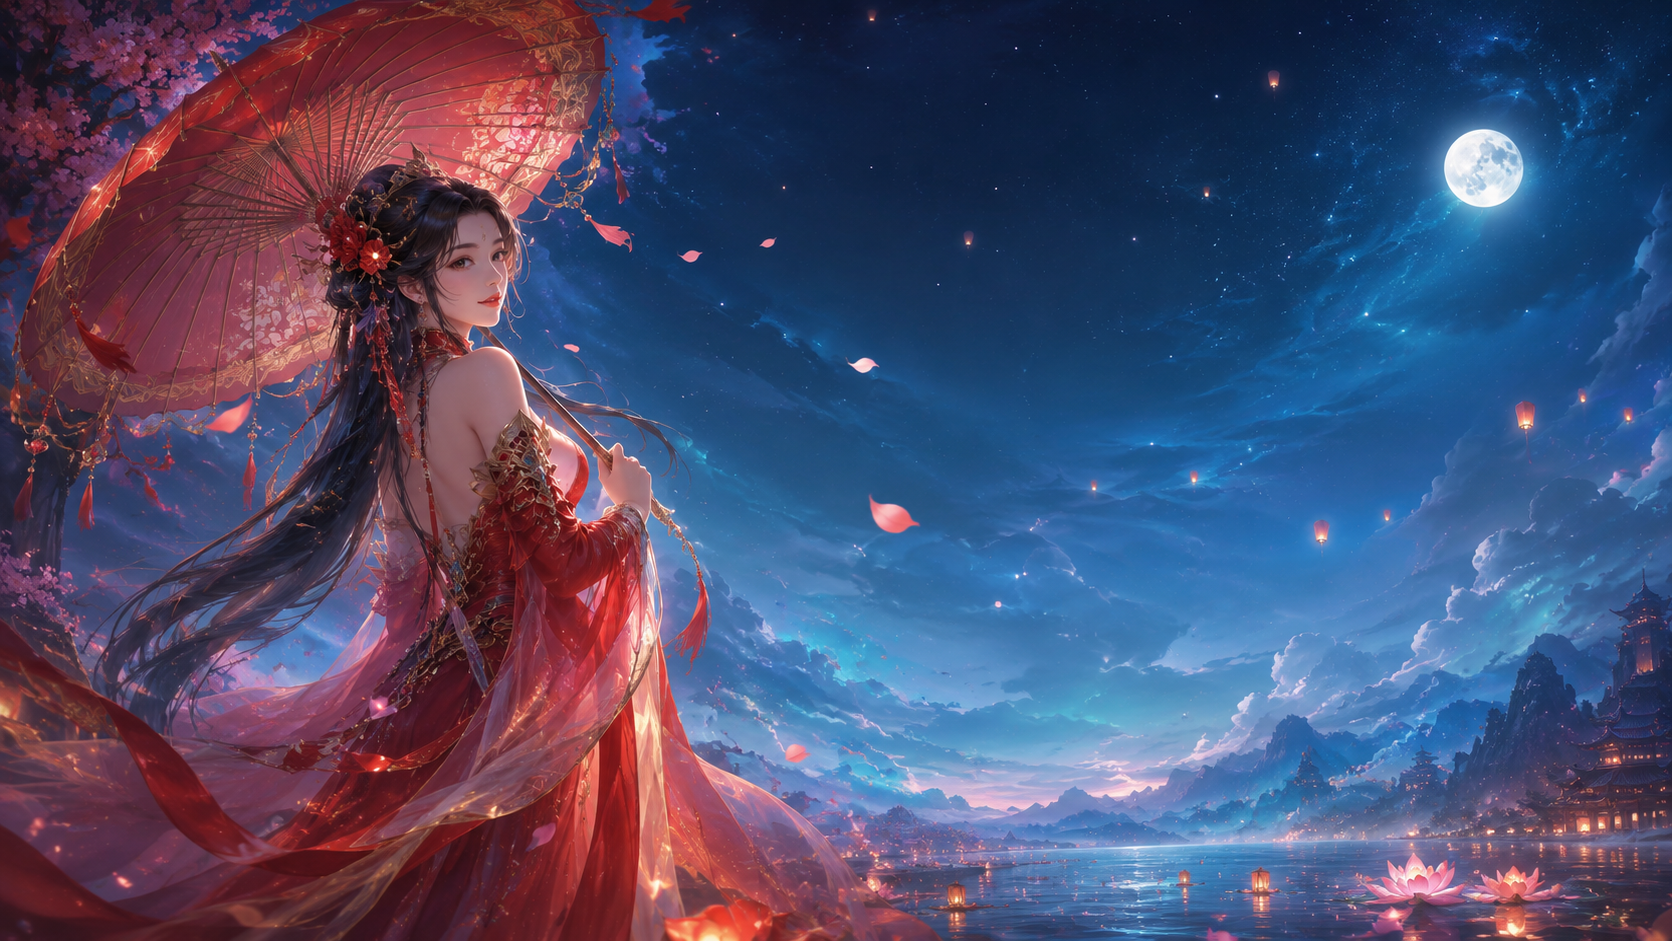
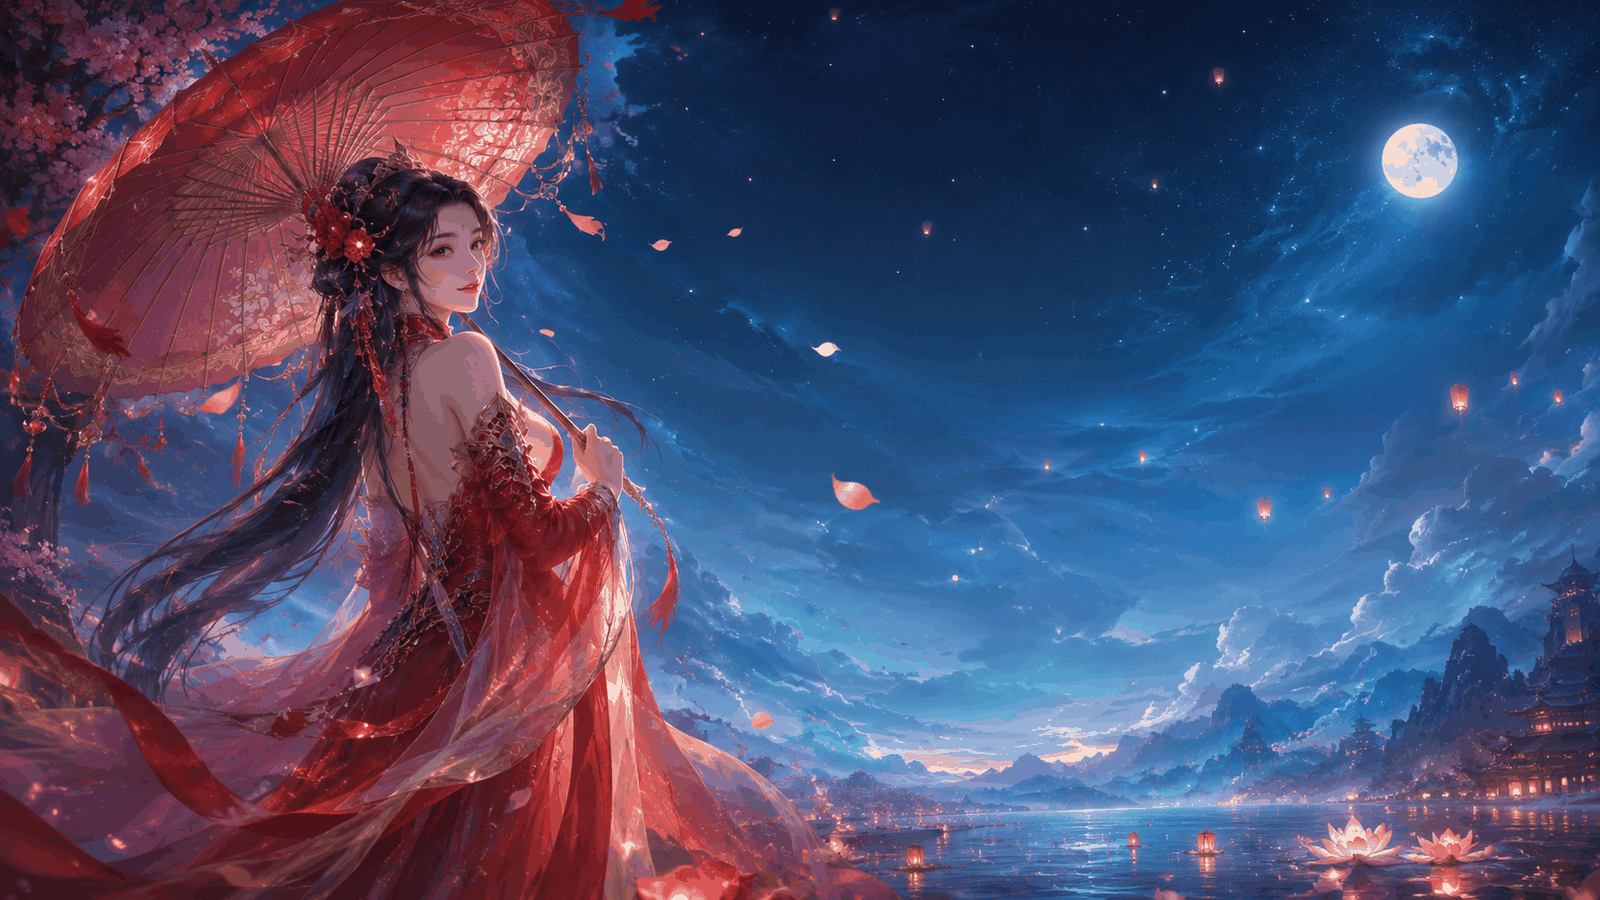
Add suggest page moonlit background

diff --git a/suggest.html b/suggest.html
@@ -13,6 +13,7 @@
         }
 
         body {
+            position: relative;
             min-height: 100vh;
             margin: 0;
             font-family: Arial, sans-serif;
@@ -20,7 +21,11 @@
             background:
                 radial-gradient(circle at 22% 18%, rgba(108, 178, 255, 0.18), transparent 34%),
                 radial-gradient(circle at 78% 72%, rgba(108, 229, 255, 0.12), transparent 36%),
+                url("assets/images/suggest-gongsunli-bg.png"),
                 linear-gradient(145deg, #01040b 0%, #04111f 48%, #071b31 100%);
+            background-size: auto, auto, cover, auto;
+            background-position: center, center, center, center;
+            background-repeat: no-repeat;
             overflow-x: hidden;
         }
 
@@ -35,6 +40,7 @@
         body::before {
             z-index: -6;
             background:
+                linear-gradient(90deg, rgba(0, 5, 14, 0.18), rgba(1, 8, 20, 0.54) 44%, rgba(1, 6, 16, 0.78) 100%),
                 radial-gradient(circle at 14% 28%, rgba(112, 218, 255, 0.18), transparent 26%),
                 radial-gradient(circle at 82% 18%, rgba(177, 142, 255, 0.14), transparent 30%),
                 radial-gradient(circle at 72% 84%, rgba(84, 205, 255, 0.12), transparent 34%);
@@ -61,6 +67,7 @@
         .suggest-bg-overlay {
             z-index: -4;
             background:
+                radial-gradient(ellipse at 74% 48%, rgba(0, 8, 20, 0.74), transparent 44%),
                 radial-gradient(ellipse at 50% 34%, rgba(19, 65, 116, 0.26), transparent 50%),
                 radial-gradient(ellipse at 84% 16%, rgba(135, 220, 255, 0.12), transparent 36%),
                 radial-gradient(ellipse at 14% 86%, rgba(163, 130, 255, 0.1), transparent 34%),
@@ -127,8 +134,8 @@
             min-height: 100vh;
             display: flex;
             align-items: center;
-            justify-content: center;
-            padding: 82px 22px 124px;
+            justify-content: flex-end;
+            padding: 82px clamp(28px, 7vw, 112px) 124px min(36vw, 520px);
         }
 
         .suggest-card {
@@ -140,7 +147,7 @@
             background:
                 radial-gradient(circle at 12% 0%, rgba(116, 229, 255, 0.16), transparent 34%),
                 radial-gradient(circle at 92% 12%, rgba(172, 142, 255, 0.14), transparent 32%),
-                rgba(5, 18, 36, 0.82);
+                rgba(5, 18, 36, 0.88);
             box-shadow:
                 0 22px 58px rgba(0, 8, 24, 0.44),
                 0 0 34px rgba(0, 190, 255, 0.18),
@@ -218,7 +225,7 @@
             border-radius: 22px;
             background:
                 linear-gradient(135deg, rgba(255, 255, 255, 0.08), rgba(99, 202, 255, 0.06)),
-                rgba(9, 28, 52, 0.72);
+                rgba(9, 28, 52, 0.78);
             box-shadow:
                 inset 0 0 28px rgba(255, 255, 255, 0.05),
                 inset 0 1px 0 rgba(255, 255, 255, 0.12);
@@ -609,6 +616,16 @@
         html.performance-low .suggest-card,
         html.performance-low .suggest-form {
             backdrop-filter: none;
+        }
+
+        @media (max-width: 768px) {
+            body {
+                background-position: center, center, 28% center, center;
+            }
+
+            .suggest-page {
+                justify-content: center;
+            }
         }
 
         @media (prefers-reduced-motion: reduce) {
